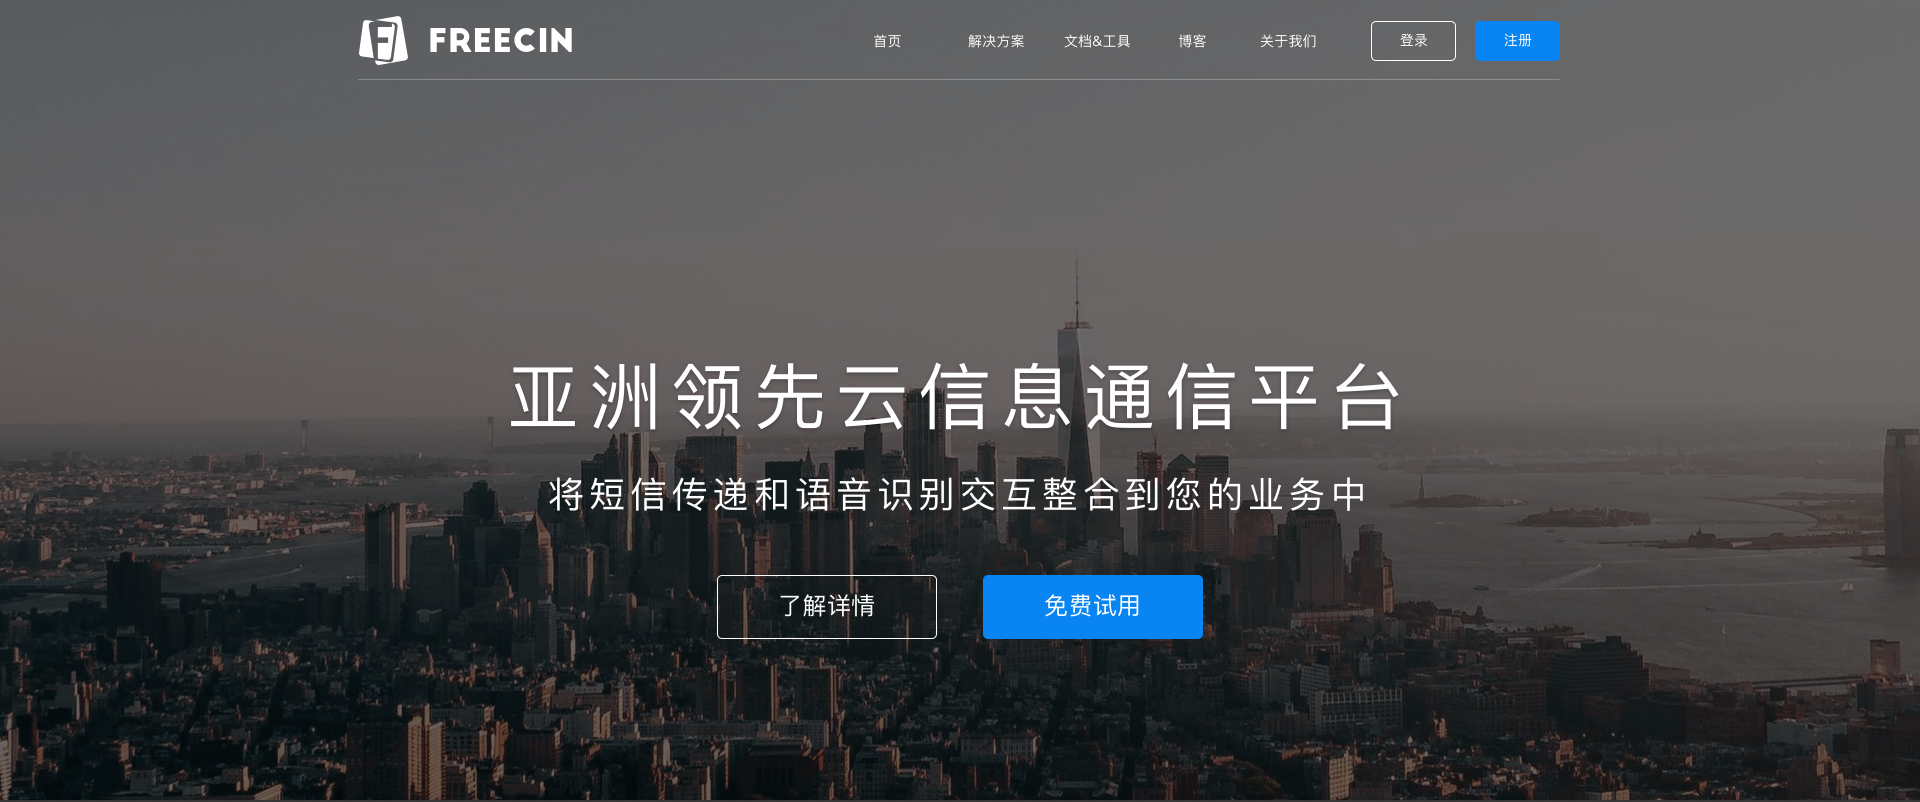
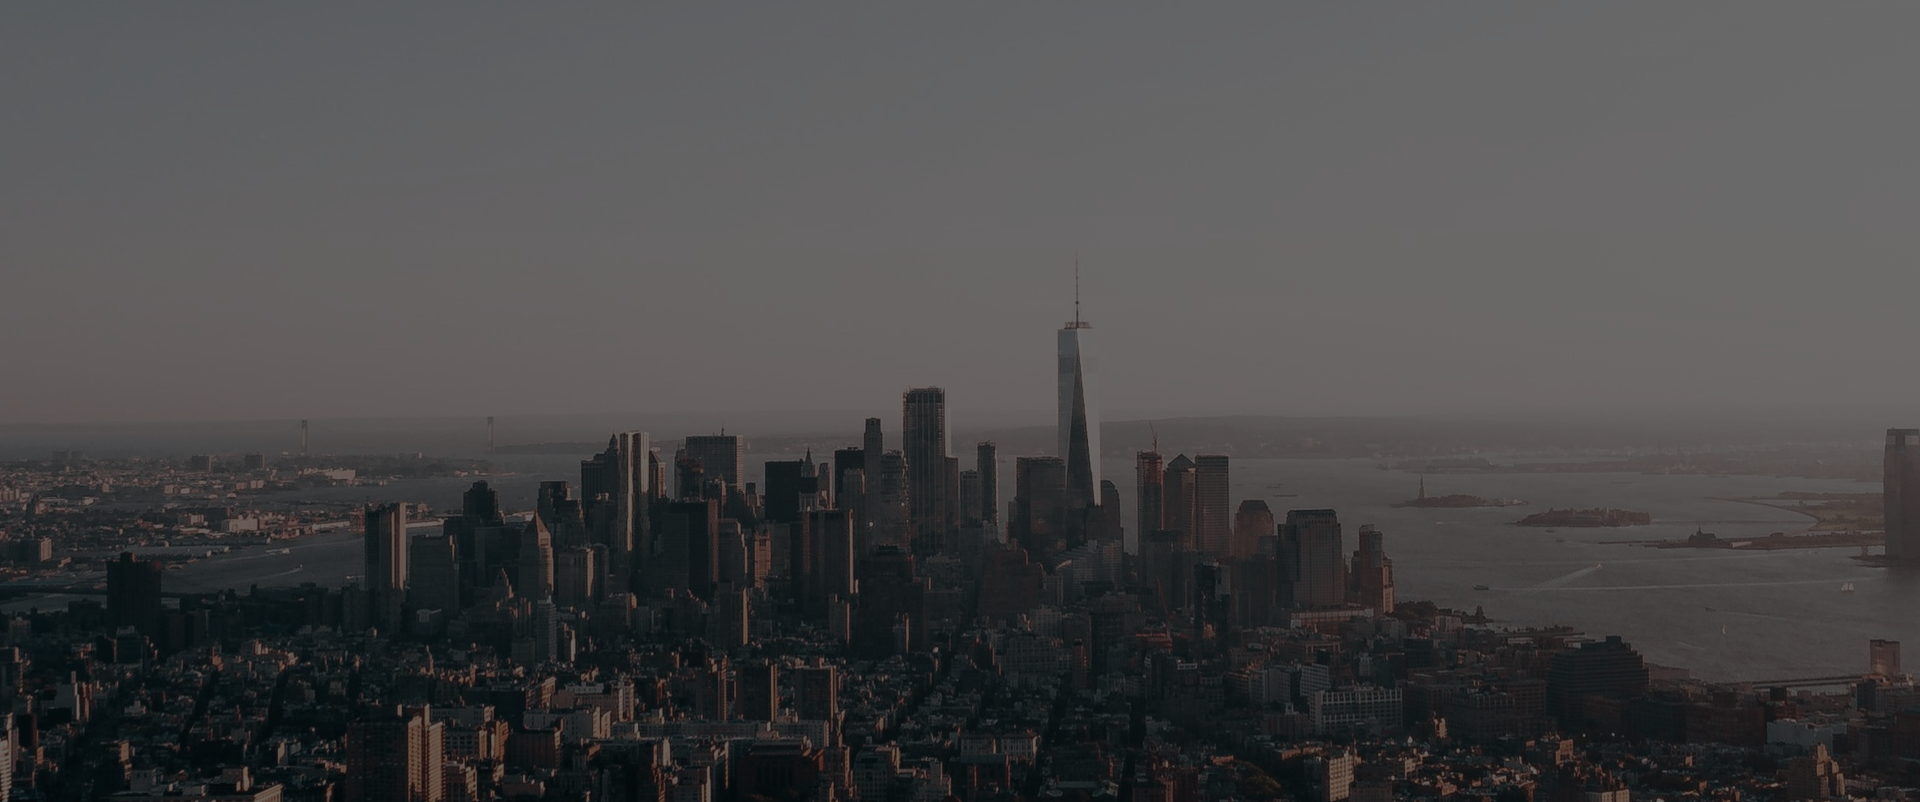
first commit

diff --git a/css/public.css b/css/public.css
@@ -37,6 +37,8 @@ li{list-style-type: none;}
 .header .register_login .register{width:85px;height:40px;border-radius:5px;color: #fff;text-align: center;line-height: 40px;background: #0885F3 100%}
 
 /*首页样式*/
+.section .first_img>img{position: relative;width: 100%;height: auto;}
+.section .first_img>.cover{position: absolute;top: 0;left: 0;right: 0;margin-left: auto;margin-right: auto;}
 .section .succ_case_list{margin-top: 73px;}
 .section .succ_case_list dl{width:373px;border: 1px solid transparent;padding: 8px;}
 .section .succ_case_list dl:hover{border: 1px solid #0885F3;}

diff --git a/index.html b/index.html
@@ -13,10 +13,14 @@
     <script type="text/javascript" src='js/vue.js'></script>
   </head>
   <body>
-    <div class="main_page">
-      <img  src="img/new-york-city-buildings-and-water-towers_4460x4460@2x.png" alt="">
-    </div>
     <div class="section">
+      <!-- 第一页  -->
+      <div class="first_img">
+        <img src="img/new-york-city-buildings-and-water-towers_4460x4460@2x.png" alt="">
+        <div class="cover box_center">
+
+        </div>
+      </div>
       <!-- 成功案例 -->
       <div class="succ_case">
         <div class="title">
